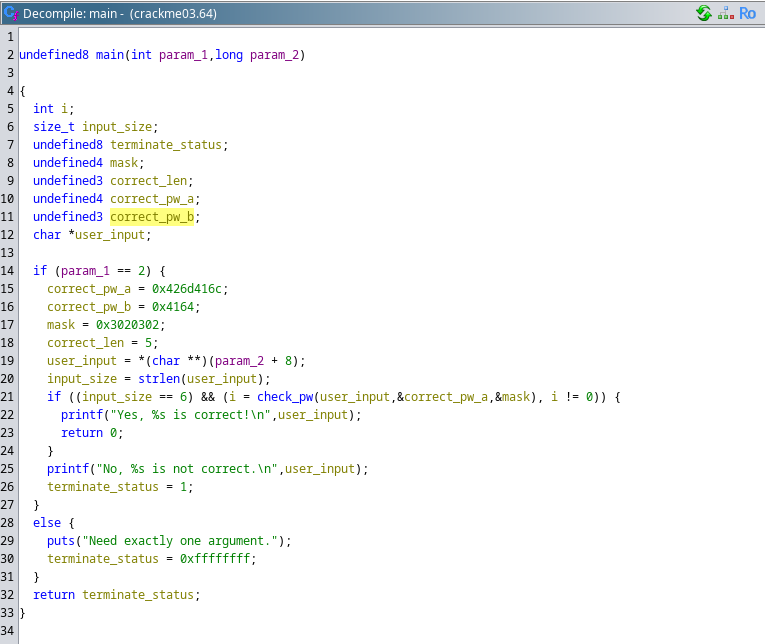
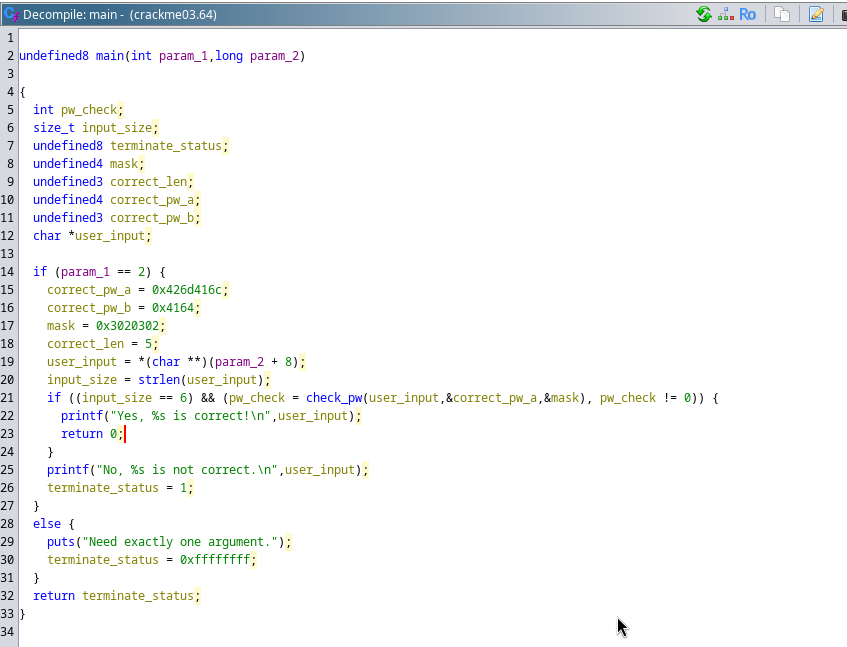
crackme03 valmis

Changed region(s): [[0.0, 0.0, 1.0, 0.9938], [0.0601, 0.7143, 0.481, 0.7764], [0.7216, 0.9627, 0.7516, 0.9938]]

diff --git a/h5.md b/h5.md
@@ -115,16 +115,33 @@ Muutan "anLTj4u8" ascii:ksi ja lähden yrittämään hypoteesia
 
 ### Crackme3
 
-Olinkin jo aiemmin selvittänyt crackme3 tunnin jälkeisellä crackme03d binäärillä gdb avulla, siinä oli kommentit mukana joka teki tehtävästä huomattavasti helpomman. Joten päätän tehdä crackme03.64 ilman kommentteja Ghidra:lla. Lisäsin tehtävän Ghidraan, avasin main funktion ja nimesin muuttujat, tässä auttoi se että olinkin nähnyt jo ohjelman lähdekodin crackme03d tehtävästä:
+Olinkin jo aiemmin selvittänyt crackme3 tunnin jälkeisellä crackme03d binäärillä gdb avulla, siinä oli kommentit mukana joka teki tehtävästä huomattavasti helpomman. Joten päätän tehdä crackme03.64 ilman kommentteja Ghidra:lla. Lisäsin tehtävän Ghidraan, avasin main funktion ja nimesin muuttujat, tässä auttoi se että olinkin nähnyt jo ohjelman lähdekoodin crackme03d tehtävästä:
 
 ![images/lab3-00.png](images/lab3-00.png)
 
 Huomaan että salasana on jaettuna kahteen eri muuttujaan. Laittamalla hiiren hex arvon päälle pystyy sen näkemään eri muodoissa:
 
-
 ![images/lab3-01.png](images/lab3-01.png)
 
+Tässä kohtaa jäin hetkeksi jumiin ja pidin tauon. Tauon jälkeen tajusin että "check_pw" funktion saa auki klikkaamalla. 
 
+![images/lab3-02.png](images/lab3-02.png)
+
+"check_pw" param1 on user_input, param2 on correct_pw_a ja param3 on mask, itse funktion sisällä on while looppi jossa ensimmäinen if lauseke palauttaa 0 jos käyttäjän syötteen indeksin mukainen merkki(IVar1) ei ole sama kuin maskin arvon indeksin ja oikean salasanan merkin indeksin tulo. Looppia käydään niin kauan kunnes oikea salasana päästään loppuun eli null-terminate merkkiin. 
+
+Mietin mihin correct_pw_b jäi koska sitä ei syötetä C koodissa salasanan tarkistus funktioon, assembly koodista päättelen että salasana correct_pw_a ja correct_pw_b yhdistyvät, mutta ovat erillään C koodissa,  sama tehdään myös maskille ja correct_len:ille(Tiedän että on väärin nimetty.)
+
+![images/lab3-03.png](images/lab3-03.png)
+
+Tiedän aiemmasta tehtävästä että salasana ilman maskia on lAmBdA mutta kun katson hex arvoja saan BmAlAd joka ei käy järkeen?
+
+Tähän pienen pähkäilyn jälkeen(noin 2 tuntia) löysin Redditistä langan jossa juteltiin samasta asiasta ja suositeltiin työkalua jolla ne voi kääntää oikeinpäin, samassa langassa on myös skripti jolla voi korjata kyseisen ongelman! ![https://gchq.github.io/CyberChef/](https://gchq.github.io/CyberChef/)
+
+Lähden kokeilemaan ratkaisua, eli maskista ja correct_len mukaan lisätään 3, 2, 3, 2 ja 5 lAmBdA merkkeihin, ja siitä saadaan nDoEiA. Testasin vielä ratkaisua.
+
+![images/lab3-04.png](images/lab3-04.png)
+
+### Crackme4
 
 ## Lähteet:
 
@@ -134,6 +151,10 @@ Tindall. Crackme tehtävät. https://github.com/NoraCodes/crackmes
 
 Karvinen. Sovellusten hakkerointi ja haavoittuvuudet. Luettavissa: https://terokarvinen.com/application-hacking/
 
+https://www.reddit.com/r/ghidra/comments/18t5jy0/help_with_ghidra_converting_hex_constant_to/
+
 https://github.com/cyrus-and/gdb-dashboard
 
 https://github.com/cyrus-and/gdb-dashboard/issues/131
+
+https://gchq.github.io/CyberChef/
